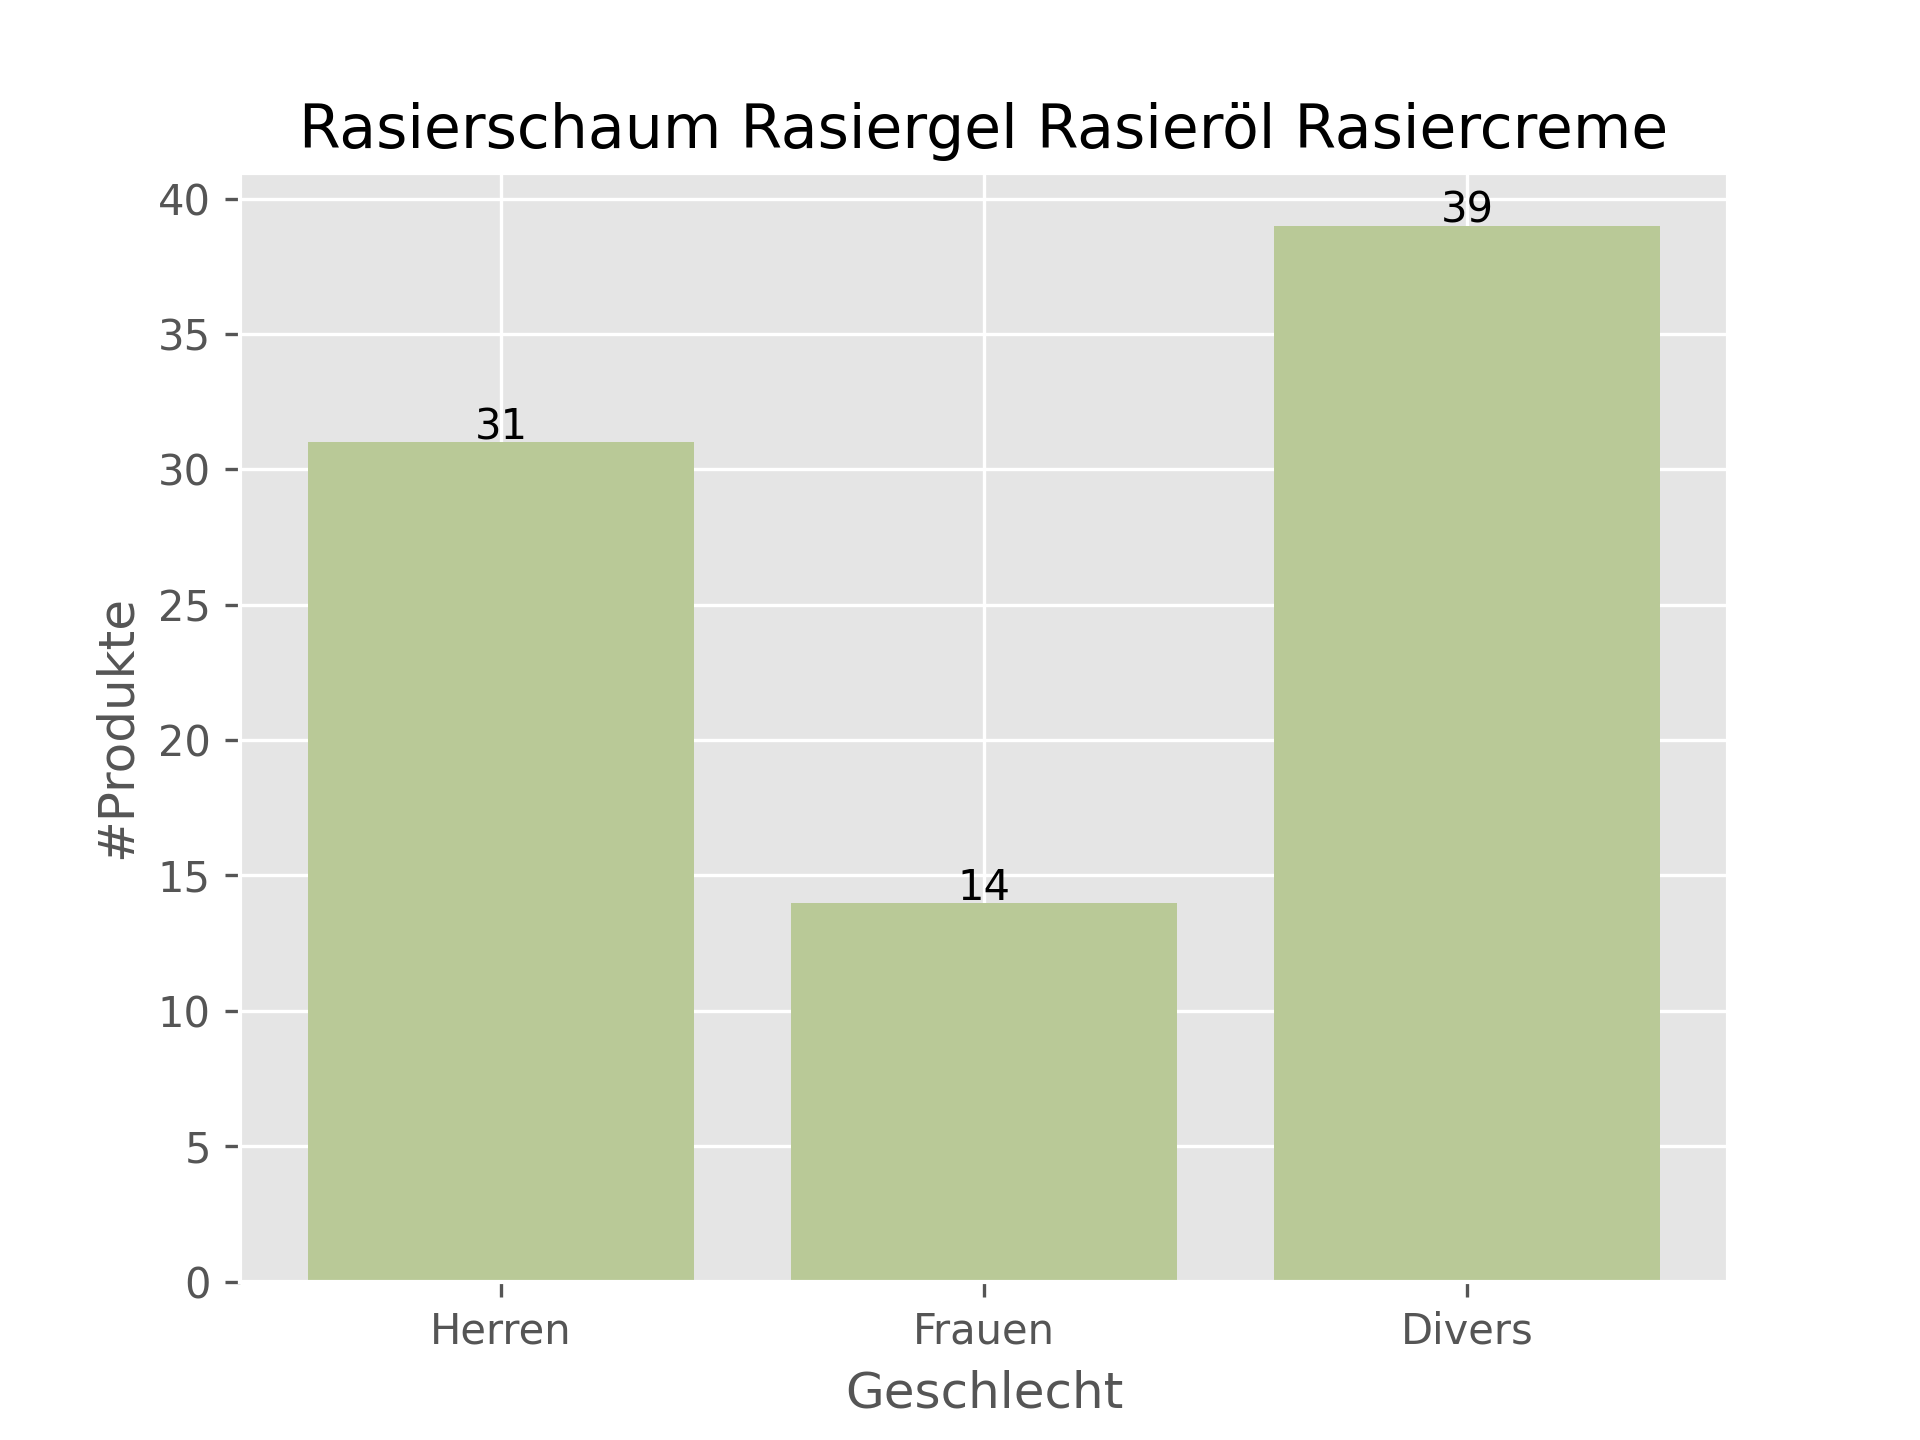
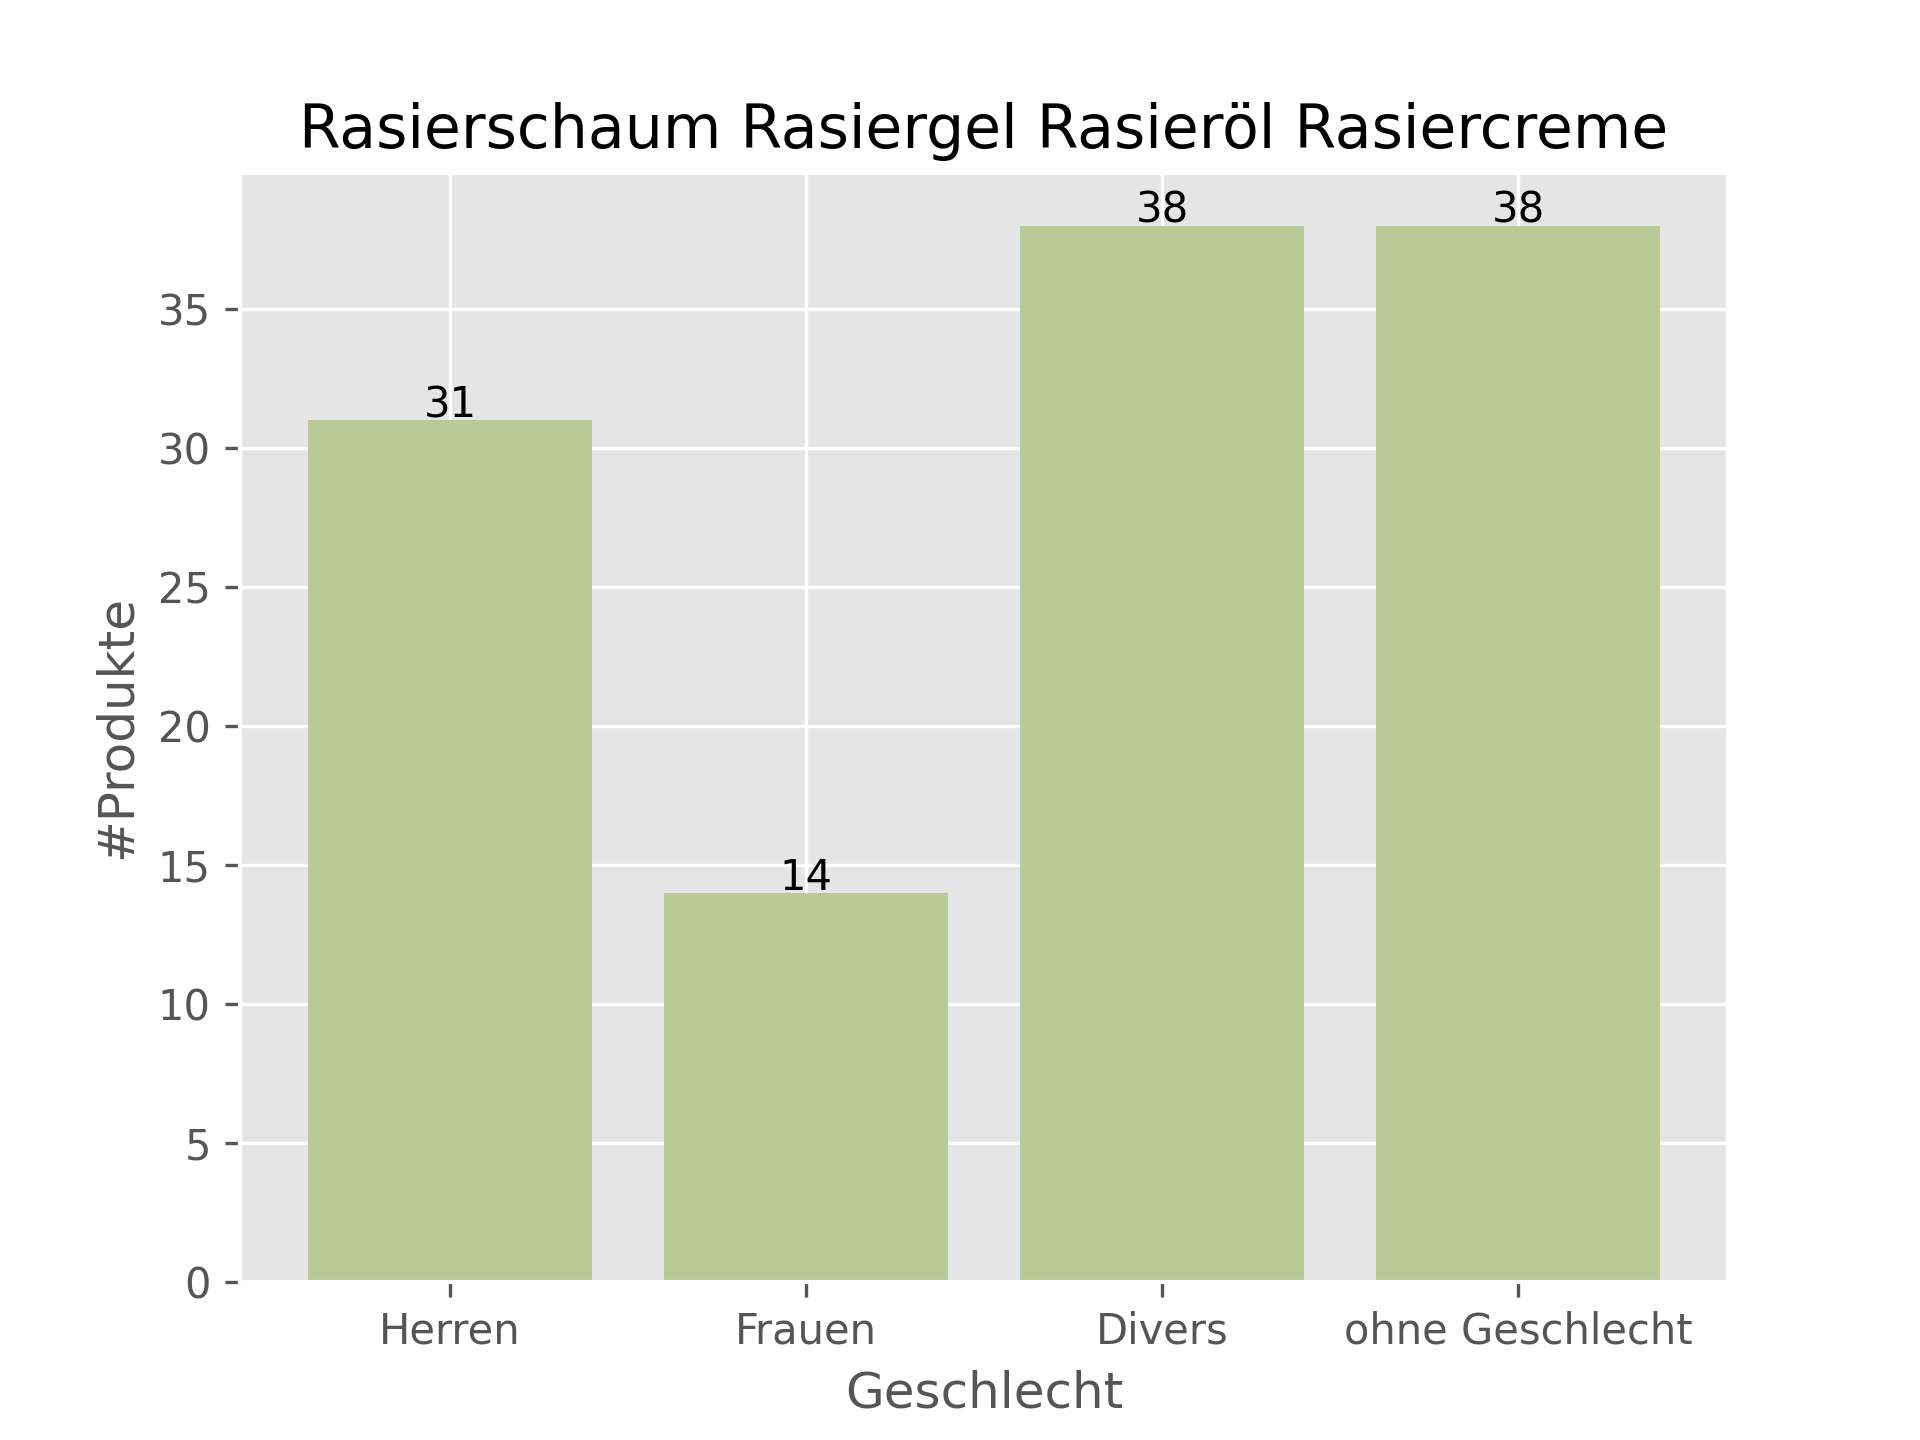
hinzufügen von Vergleichswert nur Rasierschaum/Divers

diff --git a/main.py b/main.py
@@ -9,7 +9,7 @@ def create_url(query, searchType, type, pageSize):
     return f"https://product-search.services.dmtech.com/de/search?query={query}&searchType={searchType}&type={type}&pageSize={pageSize}"
 
 
-def get_responses(product_name, ):
+def get_responses(product_name):
     payload = {}
     headers = {}
 
@@ -24,6 +24,8 @@ def get_responses(product_name, ):
 
 
 def clean_up_data(response, filename, filter):
+    if not filename:
+        filename = "standard"
     df = pd.json_normalize(response.json()['products'])
 
     columns_to_not_drop = ["gtin", "name", "price.value", "basePriceUnit", "basePrice.formattedValue",
@@ -107,14 +109,18 @@ def plot_preis_100ml(genders, df_genders, marker, colors):
 
 
 if __name__ == '__main__':
-    genders = ["Herren", "Frauen", "Divers"]
-    colors = ["purple", "yellow", "blue"]
-    markers = ["<", ">", "^"]
+    genders = ["Herren", "Frauen", "Divers", "ohne Geschlecht"]
+    colors = ["purple", "yellow", "blue", "green"]
+    markers = ["<", ">", "^", "v"]
     filter = "Rasierschaum|Rasiergel|Rasieröl|Rasiercreme"
 
     gender_responses = list()
     for gender in genders:
+        if gender == "ohne Geschlecht":
+            gender_responses.append(get_responses("rasierschaum"))
+            continue
         gender_responses.append(get_responses("rasierschaum " + gender))
+
 
     df_genders = list()
     for gender_response, gender in zip(gender_responses, genders):
